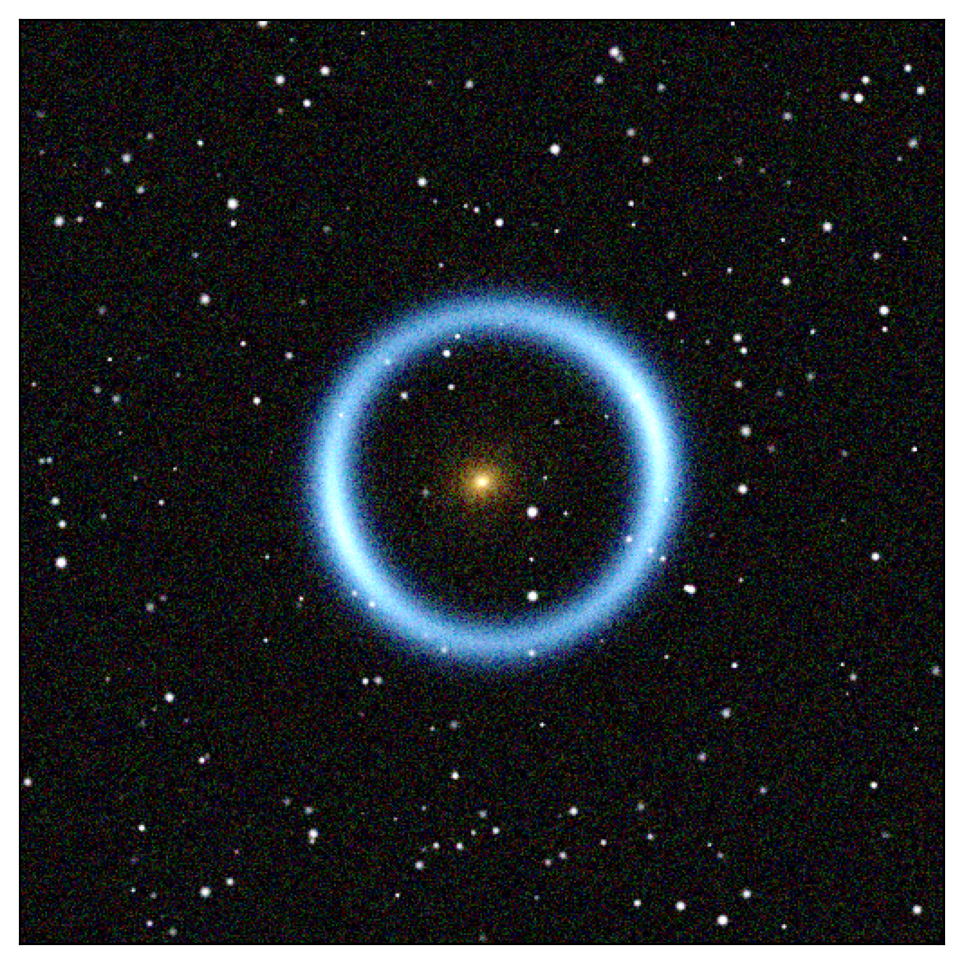
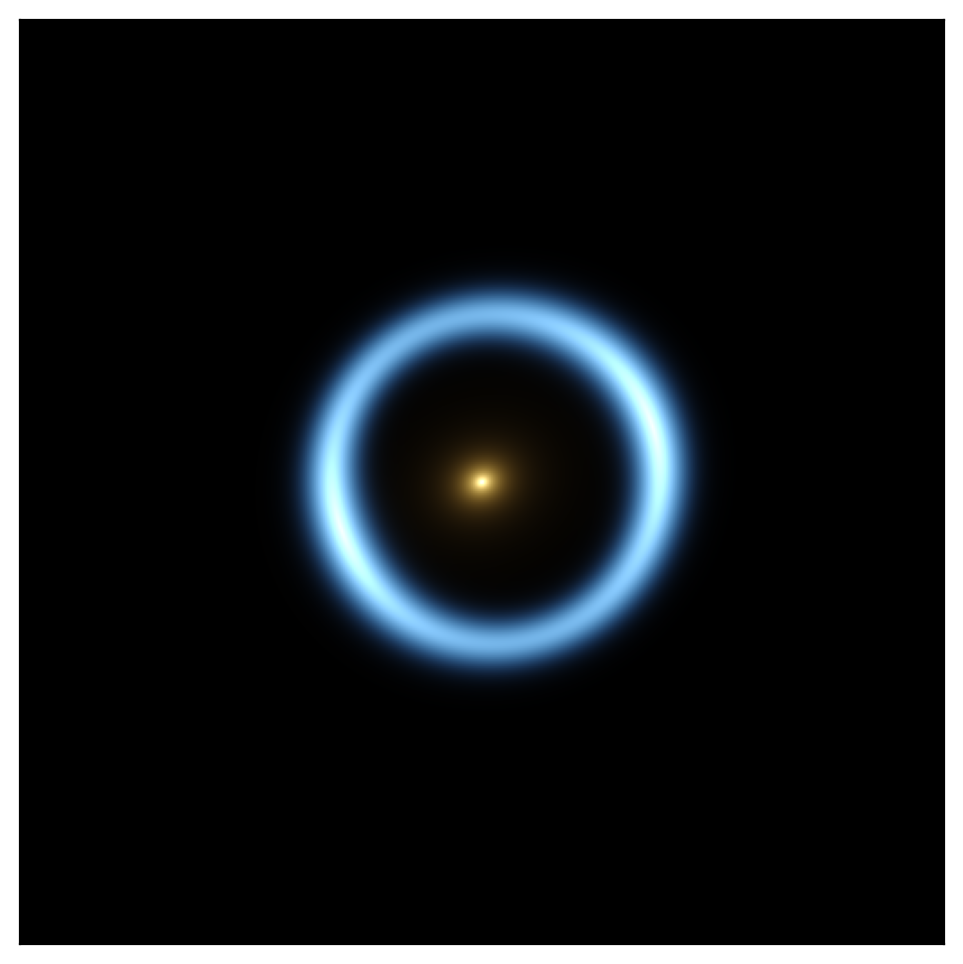
ex10: clean simulation look (no noise, no starfield by default)

diff --git a/ex10.cosmic_horseshoe.py b/ex10.cosmic_horseshoe.py
@@ -98,21 +98,25 @@ lens_light_profile = Sersic(x0=0.0, y0=0.0,
 ================================= STARFIELD ===================================
 ===============================================================================
 '''
-n_stars = 220
+##### Clean simulation look: no starfield, no photographic grain.
+##### For a Hubble-style photographic composite, raise n_stars to ~200 and
+##### set photographic_noise = True below.
+n_stars = 0
+photographic_noise = False
 rng = np.random.default_rng(seed=42)
 
 
 
 '''
 ===============================================================================
-============================ COLOR AND NOISE ==================================
+================================== COLORS =====================================
 ===============================================================================
 '''
 lens_color  = (1.00, 0.70, 0.25)          # orange-red (old elliptical)
 arc_color   = (0.25, 0.55, 1.00)          # blue (starburst background)
-stars_color = (0.90, 0.92, 1.00)          # slight blue-white
+stars_color = (0.90, 0.92, 1.00)          # slight blue-white (if n_stars>0)
 read_noise   = 0.015
-poisson_scale = 500.0                     # higher = cleaner image
+poisson_scale = 500.0                     # used only if photographic_noise
 
 
 
@@ -154,8 +158,9 @@ lens_img = project_profile_on_detector(detector, lens_light_profile)
 if lens_img.max() > 0:
     lens_img /= lens_img.max()
 
-# 3) Starfield
-stars_img = add_starfield(arc_img.shape, n_stars=n_stars, rng=rng)
+# 3) Starfield (empty by default in simulation mode)
+stars_img = (add_starfield(arc_img.shape, n_stars=n_stars, rng=rng)
+             if n_stars > 0 else None)
 
 # 4) RGB composition
 rgb = compose_rgb(lens_img, arc_img, stars_img,
@@ -163,9 +168,10 @@ rgb = compose_rgb(lens_img, arc_img, stars_img,
                   arc_color=arc_color,
                   stars_color=stars_color)
 
-# 5) Photographic noise
-rgb = add_photographic_noise(rgb, read_noise=read_noise,
-                              poisson_scale=poisson_scale, rng=rng)
+# 5) Photographic noise (off in simulation mode)
+if photographic_noise:
+    rgb = add_photographic_noise(rgb, read_noise=read_noise,
+                                  poisson_scale=poisson_scale, rng=rng)
 
 # 6) asinh stretch
 rgb = asinh_stretch(rgb, softening=0.03, max_percentile=99.7)
